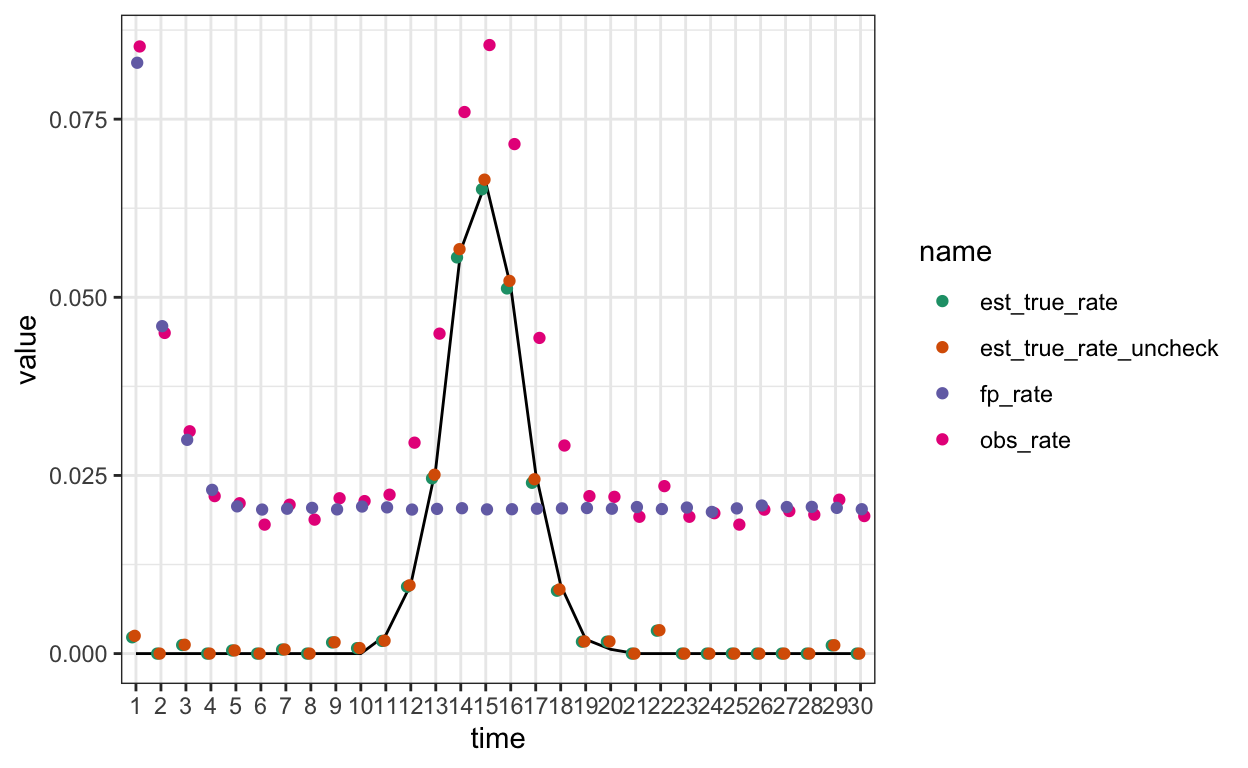
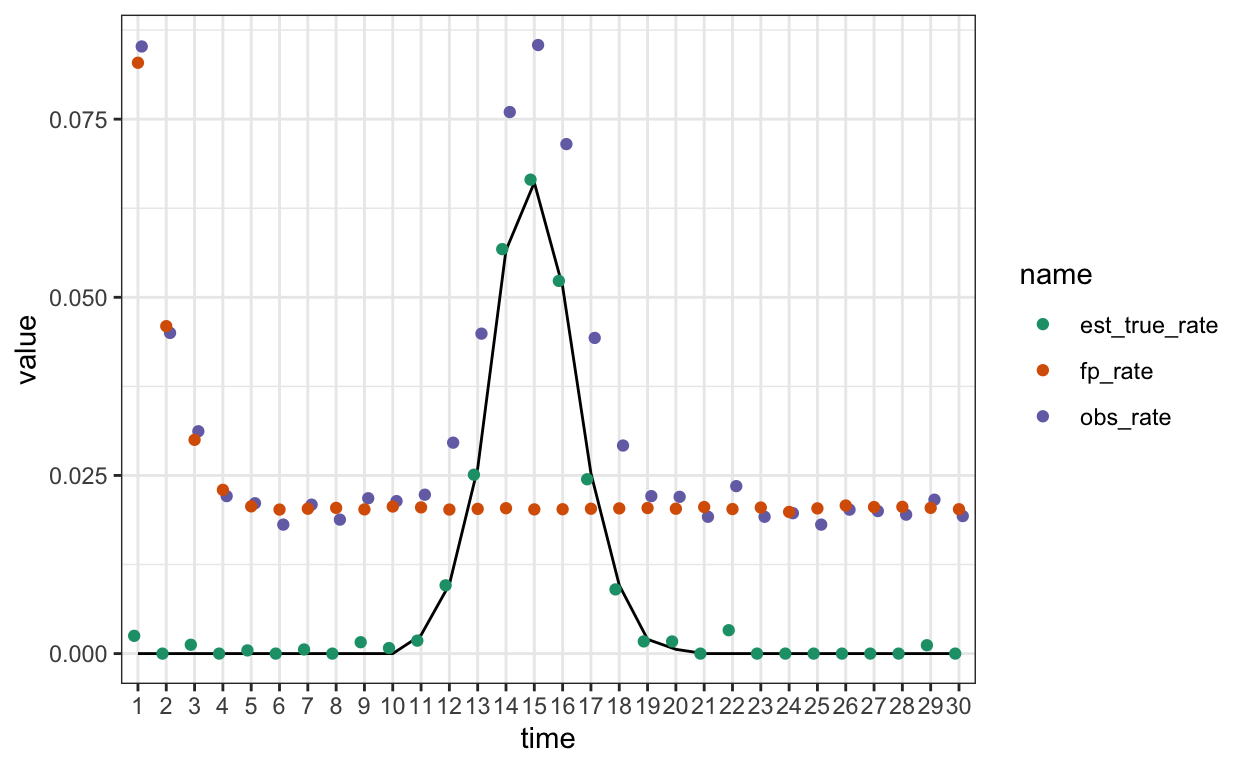
rephrase

Changed region(s): [[0.0938, 0.0, 0.9688, 0.9688], [0.875, 0.5312, 0.9375, 0.5625]]

diff --git a/_posts/2023-09-19-modeling-misclicks-in-an-app-interface/modeling-misclicks-in-an-app-interface.html b/_posts/2023-09-19-modeling-misclicks-in-an-app-interface/modeling-misclicks-in-an-app-interface.html
@@ -1580,7 +1580,7 @@ is experienced. Mittelschmerz is a pain that occurs around ovulation, i.e. in t
 <span>                      <span class='fu'><a href='https://rdrr.io/r/stats/Logistic.html'>plogis</a></span><span class='op'>(</span><span class='op'>-</span><span class='fl'>4</span> <span class='op'>+</span> <span class='fl'>3</span> <span class='op'>*</span> <span class='va'>cs</span> <span class='op'>+</span> <span class='fl'>10</span> <span class='op'>*</span> <span class='va'>os</span><span class='op'>)</span><span class='op'>)</span><span class='op'>)</span> <span class='op'><a href='https://magrittr.tidyverse.org/reference/pipe.html'>%&gt;%</a></span> </span>
 <span>  <span class='fu'><a href='https://dplyr.tidyverse.org/reference/mutate.html'>mutate</a></span><span class='op'>(</span>time <span class='op'>=</span> <span class='fu'><a href='https://rdrr.io/r/base/factor.html'>factor</a></span><span class='op'>(</span><span class='va'>time</span><span class='op'>)</span><span class='op'>)</span></span>
 <span></span>
-<span><span class='fu'>readr</span><span class='fu'>::</span><span class='fu'><a href='https://readr.tidyverse.org/reference/write_delim.html'>write_csv</a></span><span class='op'>(</span><span class='va'>daily</span>, <span class='st'>"daily.csv"</span><span class='op'>)</span></span>
+<span><span class='co'># readr::write_csv(daily, "daily.csv")</span></span>
 <span><span class='co'># daily %&gt;% group_by(time) %&gt;% summarise_all(mean) %&gt;% View</span></span>
 <span><span class='co'># daily %&gt;% group_by(time) %&gt;% summarise(sprintf("%.7f",mean(o_clicks))) %&gt;% View</span></span></code></pre>
 </div>
@@ -1672,11 +1672,8 @@ Type:  invlink(link) </code></pre>
 </div>
 <pre><code>[1] 0.02373439</code></pre>
 </div>
-<p>To estimate the true rate, I subtract the false positive rate.
-I can also divide by (1-FP) to account for clicks which were both intended and
-accidental. However, in Clue, if a button is clicked twice, it would be unchecked. However,
-my mental model of how this happens is that users don’t feel mittelschmerz accidentally check the button
-but don’t bother to correct it. Users who do feel mittelschmerz will pay more attention to make sure the button is in the desired state.</p>
+<p>To estimate the true rate, I subtract the false positive rate and divide by (1-FP) to account for clicks which were both intended and
+accidental. Normally, two clicks on the same button would turn the button off again. However, in Clue, they unfortunately had a problem with their database, so off-toggles went unrecorded. This probably contributes to the fairly high false positive rate.</p>
 <div class="layout-chunk" data-layout="l-body">
 <div class="sourceCode">
 <pre class="sourceCode r"><code class="sourceCode r"><span><span class='va'>glm5</span> <span class='op'>&lt;-</span> <span class='fu'><a href='https://rdrr.io/r/stats/glm.html'>glm</a></span><span class='op'>(</span><span class='va'>o_clicks</span> <span class='op'>~</span> <span class='fl'>1</span>, data <span class='op'>=</span> <span class='va'>daily</span>, family <span class='op'>=</span> <span class='va'>binomial</span><span class='op'>)</span></span>
@@ -1684,14 +1681,13 @@ but don’t bother to correct it. Users who do feel mittelschmerz will pay more 
 <span><span class='va'>daily</span> <span class='op'><a href='https://magrittr.tidyverse.org/reference/pipe.html'>%&gt;%</a></span> </span>
 <span>  <span class='fu'><a href='https://dplyr.tidyverse.org/reference/summarise.html'>summarise</a></span><span class='op'>(</span>obs_rate <span class='op'>=</span> <span class='fu'><a href='https://rdrr.io/r/base/mean.html'>mean</a></span><span class='op'>(</span><span class='va'>obs_rate</span><span class='op'>)</span>, fp_rate <span class='op'>=</span> <span class='fu'><a href='https://rdrr.io/r/base/mean.html'>mean</a></span><span class='op'>(</span><span class='va'>fp</span><span class='op'>)</span><span class='op'>)</span> <span class='op'><a href='https://magrittr.tidyverse.org/reference/pipe.html'>%&gt;%</a></span> </span>
 <span>  <span class='fu'><a href='https://dplyr.tidyverse.org/reference/mutate.html'>mutate</a></span><span class='op'>(</span></span>
-<span>    est_true_rate <span class='op'>=</span> <span class='op'>(</span><span class='va'>obs_rate</span> <span class='op'>-</span> <span class='va'>fp_rate</span><span class='op'>)</span>,</span>
-<span>    est_true_rate_uncheck <span class='op'>=</span> <span class='op'>(</span><span class='va'>obs_rate</span> <span class='op'>-</span> <span class='va'>fp_rate</span><span class='op'>)</span> <span class='op'>/</span> <span class='op'>(</span><span class='fl'>1</span> <span class='op'>-</span> <span class='va'>fp_rate</span><span class='op'>)</span></span>
+<span>    est_true_rate <span class='op'>=</span> <span class='op'>(</span><span class='va'>obs_rate</span> <span class='op'>-</span> <span class='va'>fp_rate</span><span class='op'>)</span> <span class='op'>/</span> <span class='op'>(</span><span class='fl'>1</span> <span class='op'>-</span> <span class='va'>fp_rate</span><span class='op'>)</span></span>
 <span>    <span class='op'>)</span></span></code></pre>
 </div>
-<pre><code># A tibble: 1 × 4
-  obs_rate fp_rate est_true_rate est_true_rate_uncheck
-     &lt;dbl&gt;   &lt;dbl&gt;         &lt;dbl&gt;                 &lt;dbl&gt;
-1   0.0318  0.0237       0.00804               0.00823</code></pre>
+<pre><code># A tibble: 1 × 3
+  obs_rate fp_rate est_true_rate
+     &lt;dbl&gt;   &lt;dbl&gt;         &lt;dbl&gt;
+1   0.0318  0.0237       0.00823</code></pre>
 </div>
 <p>Let’s bring the time variable back in. The black line is the true curve.</p>
 <div class="layout-chunk" data-layout="l-body">
@@ -1702,11 +1698,9 @@ but don’t bother to correct it. Users who do feel mittelschmerz will pay more 
 <span>  <span class='fu'><a href='https://dplyr.tidyverse.org/reference/group_by.html'>group_by</a></span><span class='op'>(</span><span class='va'>time</span><span class='op'>)</span> <span class='op'><a href='https://magrittr.tidyverse.org/reference/pipe.html'>%&gt;%</a></span> </span>
 <span>  <span class='fu'><a href='https://dplyr.tidyverse.org/reference/summarise.html'>summarise</a></span><span class='op'>(</span>obs_rate <span class='op'>=</span> <span class='fu'><a href='https://rdrr.io/r/base/mean.html'>mean</a></span><span class='op'>(</span><span class='va'>obs_rate</span><span class='op'>)</span>, fp_rate <span class='op'>=</span> <span class='fu'><a href='https://rdrr.io/r/base/mean.html'>mean</a></span><span class='op'>(</span><span class='va'>fp</span><span class='op'>)</span><span class='op'>)</span> <span class='op'><a href='https://magrittr.tidyverse.org/reference/pipe.html'>%&gt;%</a></span> </span>
 <span>  <span class='fu'><a href='https://dplyr.tidyverse.org/reference/mutate.html'>mutate</a></span><span class='op'>(</span></span>
-<span>    est_true_rate <span class='op'>=</span> <span class='op'>(</span><span class='va'>obs_rate</span> <span class='op'>-</span> <span class='va'>fp_rate</span><span class='op'>)</span>,</span>
-<span>    est_true_rate_uncheck <span class='op'>=</span> <span class='op'>(</span><span class='va'>obs_rate</span> <span class='op'>-</span> <span class='va'>fp_rate</span><span class='op'>)</span> <span class='op'>/</span> <span class='op'>(</span><span class='fl'>1</span> <span class='op'>-</span> <span class='va'>fp_rate</span><span class='op'>)</span></span>
+<span>    est_true_rate <span class='op'>=</span> <span class='op'>(</span><span class='va'>obs_rate</span> <span class='op'>-</span> <span class='va'>fp_rate</span><span class='op'>)</span> <span class='op'>/</span> <span class='op'>(</span><span class='fl'>1</span> <span class='op'>-</span> <span class='va'>fp_rate</span><span class='op'>)</span></span>
 <span>    <span class='op'>)</span> <span class='op'><a href='https://magrittr.tidyverse.org/reference/pipe.html'>%&gt;%</a></span> </span>
-<span>  <span class='fu'><a href='https://dplyr.tidyverse.org/reference/mutate.html'>mutate</a></span><span class='op'>(</span>est_true_rate <span class='op'>=</span> <span class='fu'><a href='https://dplyr.tidyverse.org/reference/if_else.html'>if_else</a></span><span class='op'>(</span><span class='va'>est_true_rate</span> <span class='op'>&lt;</span> <span class='fl'>0</span>, <span class='fl'>0</span>, <span class='va'>est_true_rate</span><span class='op'>)</span>,</span>
-<span>         est_true_rate_uncheck <span class='op'>=</span> <span class='fu'><a href='https://dplyr.tidyverse.org/reference/if_else.html'>if_else</a></span><span class='op'>(</span><span class='va'>est_true_rate_uncheck</span> <span class='op'>&lt;</span> <span class='fl'>0</span>, <span class='fl'>0</span>, <span class='va'>est_true_rate_uncheck</span><span class='op'>)</span></span>
+<span>  <span class='fu'><a href='https://dplyr.tidyverse.org/reference/mutate.html'>mutate</a></span><span class='op'>(</span>est_true_rate <span class='op'>=</span> <span class='fu'><a href='https://dplyr.tidyverse.org/reference/if_else.html'>if_else</a></span><span class='op'>(</span><span class='va'>est_true_rate</span> <span class='op'>&lt;</span> <span class='fl'>0</span>, <span class='fl'>0</span>, <span class='va'>est_true_rate</span><span class='op'>)</span></span>
 <span>         <span class='op'>)</span> <span class='op'><a href='https://magrittr.tidyverse.org/reference/pipe.html'>%&gt;%</a></span> </span>
 <span>  <span class='fu'><a href='https://tidyr.tidyverse.org/reference/pivot_longer.html'>pivot_longer</a></span><span class='op'>(</span><span class='fu'><a href='https://rdrr.io/r/base/c.html'>c</a></span><span class='op'>(</span><span class='op'>-</span><span class='va'>time</span><span class='op'>)</span><span class='op'>)</span> <span class='op'><a href='https://magrittr.tidyverse.org/reference/pipe.html'>%&gt;%</a></span> </span>
 <span>  <span class='fu'><a href='https://ggplot2.tidyverse.org/reference/ggplot.html'>ggplot</a></span><span class='op'>(</span><span class='fu'><a href='https://ggplot2.tidyverse.org/reference/aes.html'>aes</a></span><span class='op'>(</span><span class='va'>time</span>, <span class='va'>value</span>, color <span class='op'>=</span> <span class='va'>name</span><span class='op'>)</span><span class='op'>)</span> <span class='op'>+</span></span>

diff --git a/posts/2023-09-19-modeling-misclicks-in-an-app-interface/index.html b/posts/2023-09-19-modeling-misclicks-in-an-app-interface/index.html
@@ -2258,7 +2258,7 @@ is experienced. Mittelschmerz is a pain that occurs around ovulation, i.e. in t
 <span>                      <span class='fu'><a href='https://rdrr.io/r/stats/Logistic.html'>plogis</a></span><span class='op'>(</span><span class='op'>-</span><span class='fl'>4</span> <span class='op'>+</span> <span class='fl'>3</span> <span class='op'>*</span> <span class='va'>cs</span> <span class='op'>+</span> <span class='fl'>10</span> <span class='op'>*</span> <span class='va'>os</span><span class='op'>)</span><span class='op'>)</span><span class='op'>)</span> <span class='op'><a href='https://magrittr.tidyverse.org/reference/pipe.html'>%&gt;%</a></span> </span>
 <span>  <span class='fu'><a href='https://dplyr.tidyverse.org/reference/mutate.html'>mutate</a></span><span class='op'>(</span>time <span class='op'>=</span> <span class='fu'><a href='https://rdrr.io/r/base/factor.html'>factor</a></span><span class='op'>(</span><span class='va'>time</span><span class='op'>)</span><span class='op'>)</span></span>
 <span></span>
-<span><span class='fu'>readr</span><span class='fu'>::</span><span class='fu'><a href='https://readr.tidyverse.org/reference/write_delim.html'>write_csv</a></span><span class='op'>(</span><span class='va'>daily</span>, <span class='st'>"daily.csv"</span><span class='op'>)</span></span>
+<span><span class='co'># readr::write_csv(daily, "daily.csv")</span></span>
 <span><span class='co'># daily %&gt;% group_by(time) %&gt;% summarise_all(mean) %&gt;% View</span></span>
 <span><span class='co'># daily %&gt;% group_by(time) %&gt;% summarise(sprintf("%.7f",mean(o_clicks))) %&gt;% View</span></span></code></pre>
 </div>
@@ -2350,11 +2350,8 @@ Type:  invlink(link) </code></pre>
 </div>
 <pre><code>[1] 0.02373439</code></pre>
 </div>
-<p>To estimate the true rate, I subtract the false positive rate.
-I can also divide by (1-FP) to account for clicks which were both intended and
-accidental. However, in Clue, if a button is clicked twice, it would be unchecked. However,
-my mental model of how this happens is that users don’t feel mittelschmerz accidentally check the button
-but don’t bother to correct it. Users who do feel mittelschmerz will pay more attention to make sure the button is in the desired state.</p>
+<p>To estimate the true rate, I subtract the false positive rate and divide by (1-FP) to account for clicks which were both intended and
+accidental. Normally, two clicks on the same button would turn the button off again. However, in Clue, they unfortunately had a problem with their database, so off-toggles went unrecorded. This probably contributes to the fairly high false positive rate.</p>
 <div class="layout-chunk" data-layout="l-body">
 <div class="sourceCode">
 <pre class="sourceCode r"><code class="sourceCode r"><span><span class='va'>glm5</span> <span class='op'>&lt;-</span> <span class='fu'><a href='https://rdrr.io/r/stats/glm.html'>glm</a></span><span class='op'>(</span><span class='va'>o_clicks</span> <span class='op'>~</span> <span class='fl'>1</span>, data <span class='op'>=</span> <span class='va'>daily</span>, family <span class='op'>=</span> <span class='va'>binomial</span><span class='op'>)</span></span>
@@ -2362,14 +2359,13 @@ but don’t bother to correct it. Users who do feel mittelschmerz will pay more 
 <span><span class='va'>daily</span> <span class='op'><a href='https://magrittr.tidyverse.org/reference/pipe.html'>%&gt;%</a></span> </span>
 <span>  <span class='fu'><a href='https://dplyr.tidyverse.org/reference/summarise.html'>summarise</a></span><span class='op'>(</span>obs_rate <span class='op'>=</span> <span class='fu'><a href='https://rdrr.io/r/base/mean.html'>mean</a></span><span class='op'>(</span><span class='va'>obs_rate</span><span class='op'>)</span>, fp_rate <span class='op'>=</span> <span class='fu'><a href='https://rdrr.io/r/base/mean.html'>mean</a></span><span class='op'>(</span><span class='va'>fp</span><span class='op'>)</span><span class='op'>)</span> <span class='op'><a href='https://magrittr.tidyverse.org/reference/pipe.html'>%&gt;%</a></span> </span>
 <span>  <span class='fu'><a href='https://dplyr.tidyverse.org/reference/mutate.html'>mutate</a></span><span class='op'>(</span></span>
-<span>    est_true_rate <span class='op'>=</span> <span class='op'>(</span><span class='va'>obs_rate</span> <span class='op'>-</span> <span class='va'>fp_rate</span><span class='op'>)</span>,</span>
-<span>    est_true_rate_uncheck <span class='op'>=</span> <span class='op'>(</span><span class='va'>obs_rate</span> <span class='op'>-</span> <span class='va'>fp_rate</span><span class='op'>)</span> <span class='op'>/</span> <span class='op'>(</span><span class='fl'>1</span> <span class='op'>-</span> <span class='va'>fp_rate</span><span class='op'>)</span></span>
+<span>    est_true_rate <span class='op'>=</span> <span class='op'>(</span><span class='va'>obs_rate</span> <span class='op'>-</span> <span class='va'>fp_rate</span><span class='op'>)</span> <span class='op'>/</span> <span class='op'>(</span><span class='fl'>1</span> <span class='op'>-</span> <span class='va'>fp_rate</span><span class='op'>)</span></span>
 <span>    <span class='op'>)</span></span></code></pre>
 </div>
-<pre><code># A tibble: 1 × 4
-  obs_rate fp_rate est_true_rate est_true_rate_uncheck
-     &lt;dbl&gt;   &lt;dbl&gt;         &lt;dbl&gt;                 &lt;dbl&gt;
-1   0.0318  0.0237       0.00804               0.00823</code></pre>
+<pre><code># A tibble: 1 × 3
+  obs_rate fp_rate est_true_rate
+     &lt;dbl&gt;   &lt;dbl&gt;         &lt;dbl&gt;
+1   0.0318  0.0237       0.00823</code></pre>
 </div>
 <p>Let’s bring the time variable back in. The black line is the true curve.</p>
 <div class="layout-chunk" data-layout="l-body">
@@ -2380,11 +2376,9 @@ but don’t bother to correct it. Users who do feel mittelschmerz will pay more 
 <span>  <span class='fu'><a href='https://dplyr.tidyverse.org/reference/group_by.html'>group_by</a></span><span class='op'>(</span><span class='va'>time</span><span class='op'>)</span> <span class='op'><a href='https://magrittr.tidyverse.org/reference/pipe.html'>%&gt;%</a></span> </span>
 <span>  <span class='fu'><a href='https://dplyr.tidyverse.org/reference/summarise.html'>summarise</a></span><span class='op'>(</span>obs_rate <span class='op'>=</span> <span class='fu'><a href='https://rdrr.io/r/base/mean.html'>mean</a></span><span class='op'>(</span><span class='va'>obs_rate</span><span class='op'>)</span>, fp_rate <span class='op'>=</span> <span class='fu'><a href='https://rdrr.io/r/base/mean.html'>mean</a></span><span class='op'>(</span><span class='va'>fp</span><span class='op'>)</span><span class='op'>)</span> <span class='op'><a href='https://magrittr.tidyverse.org/reference/pipe.html'>%&gt;%</a></span> </span>
 <span>  <span class='fu'><a href='https://dplyr.tidyverse.org/reference/mutate.html'>mutate</a></span><span class='op'>(</span></span>
-<span>    est_true_rate <span class='op'>=</span> <span class='op'>(</span><span class='va'>obs_rate</span> <span class='op'>-</span> <span class='va'>fp_rate</span><span class='op'>)</span>,</span>
-<span>    est_true_rate_uncheck <span class='op'>=</span> <span class='op'>(</span><span class='va'>obs_rate</span> <span class='op'>-</span> <span class='va'>fp_rate</span><span class='op'>)</span> <span class='op'>/</span> <span class='op'>(</span><span class='fl'>1</span> <span class='op'>-</span> <span class='va'>fp_rate</span><span class='op'>)</span></span>
+<span>    est_true_rate <span class='op'>=</span> <span class='op'>(</span><span class='va'>obs_rate</span> <span class='op'>-</span> <span class='va'>fp_rate</span><span class='op'>)</span> <span class='op'>/</span> <span class='op'>(</span><span class='fl'>1</span> <span class='op'>-</span> <span class='va'>fp_rate</span><span class='op'>)</span></span>
 <span>    <span class='op'>)</span> <span class='op'><a href='https://magrittr.tidyverse.org/reference/pipe.html'>%&gt;%</a></span> </span>
-<span>  <span class='fu'><a href='https://dplyr.tidyverse.org/reference/mutate.html'>mutate</a></span><span class='op'>(</span>est_true_rate <span class='op'>=</span> <span class='fu'><a href='https://dplyr.tidyverse.org/reference/if_else.html'>if_else</a></span><span class='op'>(</span><span class='va'>est_true_rate</span> <span class='op'>&lt;</span> <span class='fl'>0</span>, <span class='fl'>0</span>, <span class='va'>est_true_rate</span><span class='op'>)</span>,</span>
-<span>         est_true_rate_uncheck <span class='op'>=</span> <span class='fu'><a href='https://dplyr.tidyverse.org/reference/if_else.html'>if_else</a></span><span class='op'>(</span><span class='va'>est_true_rate_uncheck</span> <span class='op'>&lt;</span> <span class='fl'>0</span>, <span class='fl'>0</span>, <span class='va'>est_true_rate_uncheck</span><span class='op'>)</span></span>
+<span>  <span class='fu'><a href='https://dplyr.tidyverse.org/reference/mutate.html'>mutate</a></span><span class='op'>(</span>est_true_rate <span class='op'>=</span> <span class='fu'><a href='https://dplyr.tidyverse.org/reference/if_else.html'>if_else</a></span><span class='op'>(</span><span class='va'>est_true_rate</span> <span class='op'>&lt;</span> <span class='fl'>0</span>, <span class='fl'>0</span>, <span class='va'>est_true_rate</span><span class='op'>)</span></span>
 <span>         <span class='op'>)</span> <span class='op'><a href='https://magrittr.tidyverse.org/reference/pipe.html'>%&gt;%</a></span> </span>
 <span>  <span class='fu'><a href='https://tidyr.tidyverse.org/reference/pivot_longer.html'>pivot_longer</a></span><span class='op'>(</span><span class='fu'><a href='https://rdrr.io/r/base/c.html'>c</a></span><span class='op'>(</span><span class='op'>-</span><span class='va'>time</span><span class='op'>)</span><span class='op'>)</span> <span class='op'><a href='https://magrittr.tidyverse.org/reference/pipe.html'>%&gt;%</a></span> </span>
 <span>  <span class='fu'><a href='https://ggplot2.tidyverse.org/reference/ggplot.html'>ggplot</a></span><span class='op'>(</span><span class='fu'><a href='https://ggplot2.tidyverse.org/reference/aes.html'>aes</a></span><span class='op'>(</span><span class='va'>time</span>, <span class='va'>value</span>, color <span class='op'>=</span> <span class='va'>name</span><span class='op'>)</span><span class='op'>)</span> <span class='op'>+</span></span>
